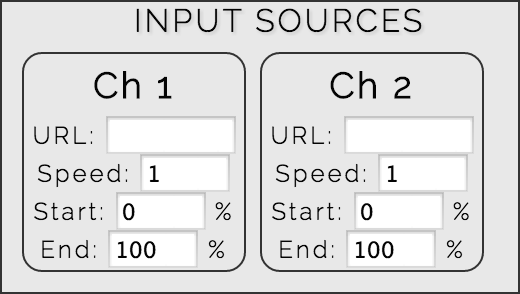
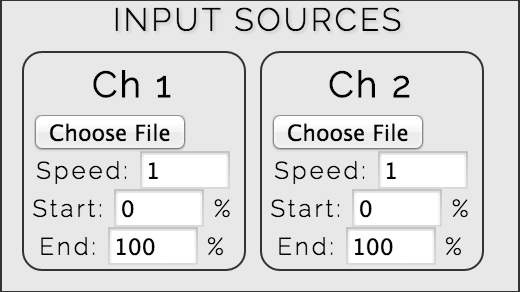
v1.2.0

diff --git a/index.html b/index.html
@@ -655,7 +655,7 @@
             <img src="images/patchboard.png" />
             <p>The patchboard connects the <i>outputs</i> of components to the <i>inputs</i> of other components.</p>
             <p>For example, the simplest patch
-            you can make is by just placing a pin on <b>A3</b>, which connects the output of Oscillator 1
+            you can make is by just placing a pin on <b>A1</b>, which connects the output of Oscillator 1
             to the input of Output Ch1, by default producing a 440 Hz sine wave sound.</p>
             <p>It helps to separate the components into <i>sources</i> and <i>treatments</i>:</p>
             <ul>
@@ -698,18 +698,15 @@
 
             <h3>The Input Source Selector</h3>
             <img src="images/input-sources.png" />
-            <p>The input source selector can be used to load external audio tracks by their URLs. Each track
+            <p>The input source selector can be used to upload audio tracks for playback. Each track
             loaded this way will play in a loop on the given input channel <b>(pins 8 and 9)</b>. You can adjust
             the playback speed and the start and end points of the track to loop between.</p>
-            <p><i>Because the input source selector makes cross-origin requests, it will only work if
-            CORS (cross-origin resource sharing) is enabled on your browser. You can use an extension such as 
-            <a href="https://chrome.google.com/webstore/detail/allow-control-allow-origi/nlfbmbojpeacfghkpbjhddihlkkiljbi?hl=en">this one</a>
-            to enable CORS on your browser.</i></p>
           </div>
           <div id="components" class="page">
             <h3>Oscillator 1</h3>
-            <p>A sine and ramp (sawtooth) wave oscillator, with a frequency control going from 28 Hz to 7040 Hz. 
-            Outputs both waveforms on <b>row 3</b>, and takes a frequency control input at <b>column I</b>.</p>
+            <p>A sine and ramp (sawtooth) wave oscillator, with a frequency control going from 28 Hz to 7040 Hz.
+            Outputs the sine and ramp waves on <b>rows 1 and 2</b>, respectively, and 
+            takes a frequency control input at <b>column I</b>.</p>
             <p class="no-margin"><b>Controls:</b></p>
             <ul>
               <li><b>Frequency:</b> Controls the frequency of both the sine and ramp waves.</li>
@@ -719,8 +716,9 @@
             </ul>
 
             <h3>Oscillator 2</h3>
-            <p>A square and triangle wave oscillator, with a frequency control going from 28 Hz to 7040 Hz. 
-            Outputs both waveforms on <b>row 4</b>, and takes a frequency control input at <b>column J</b>.</p>
+            <p>A square and triangle wave oscillator, with a frequency control going from 28 Hz to 7040 Hz.
+            Outputs the square and triangle waves on <b>rows 3 and 4</b>, respectively, and 
+            takes a frequency control input at <b>column J</b>.</p>
             <p class="no-margin"><b>Controls:</b></p>
             <ul>
               <li><b>Frequency:</b> Controls the frequency of both the square and triangle waves.</li>
@@ -862,6 +860,7 @@
             
             <h3>Version History</h3>
             <ul>
+              <li><b>Version 1.2.0</b> <i>(2016-06-10)</i>: Settings panel with knob controls, restyled patchboard, upload support via S3.
               <li><b>Version 1.1.0</b> <i>(2016-05-25)</i>: Preset banks 95-99, knob control improvements, some adjustments to Reverb module.</li>
               <li><b>Version 1.0.1</b> <i>(2016-05-25)</i>: Fixed bug with component order not being properly set, causing issues for patches using the Ring Modulator.</li>
               <li><b>Version 1.0.0</b> <i>(2016-05-21)</i>: Initial release.</li>
